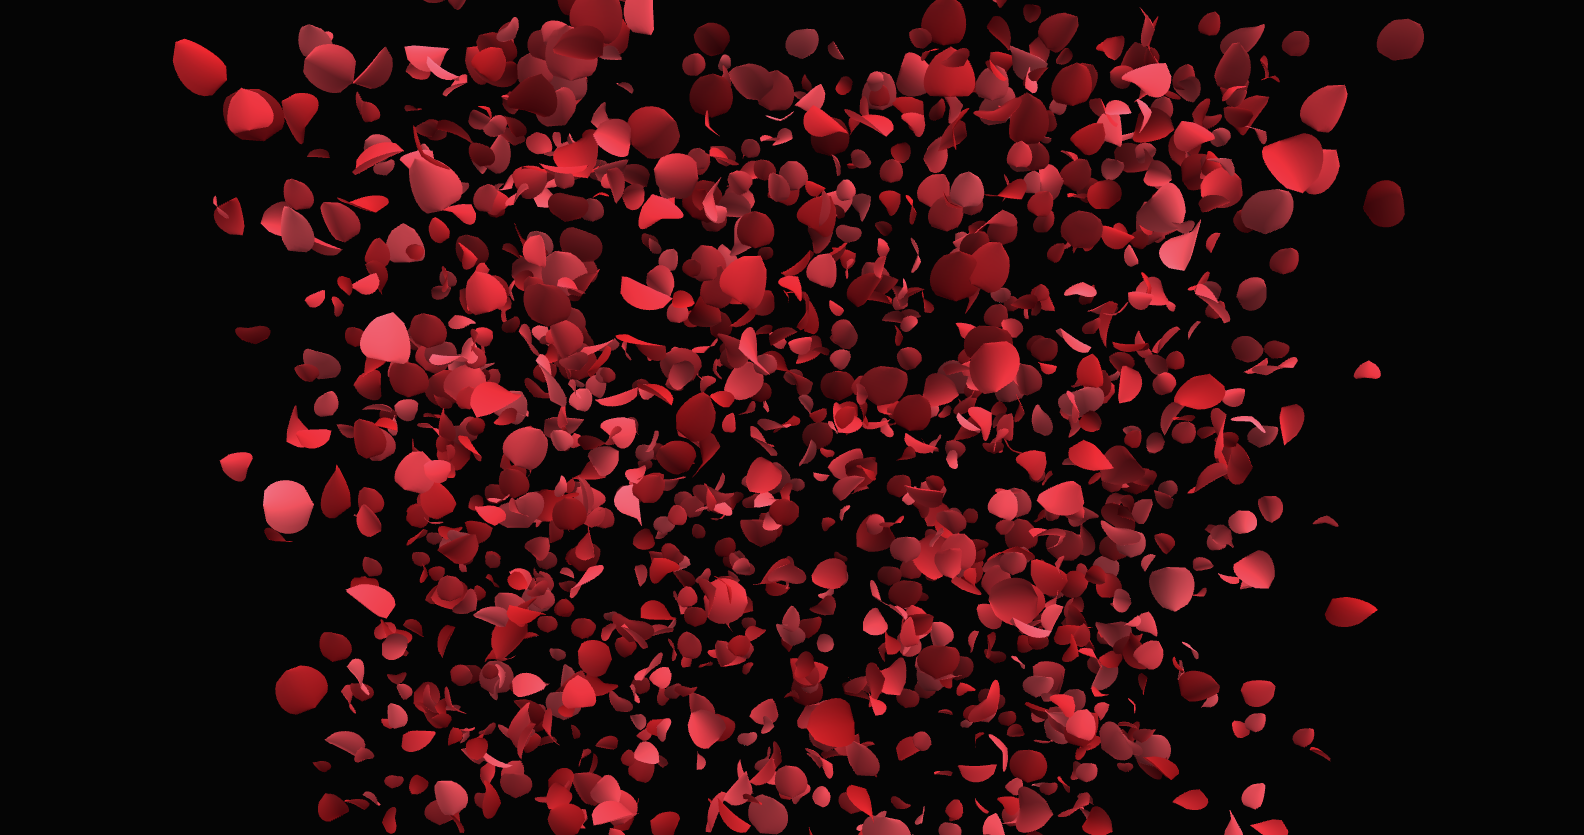
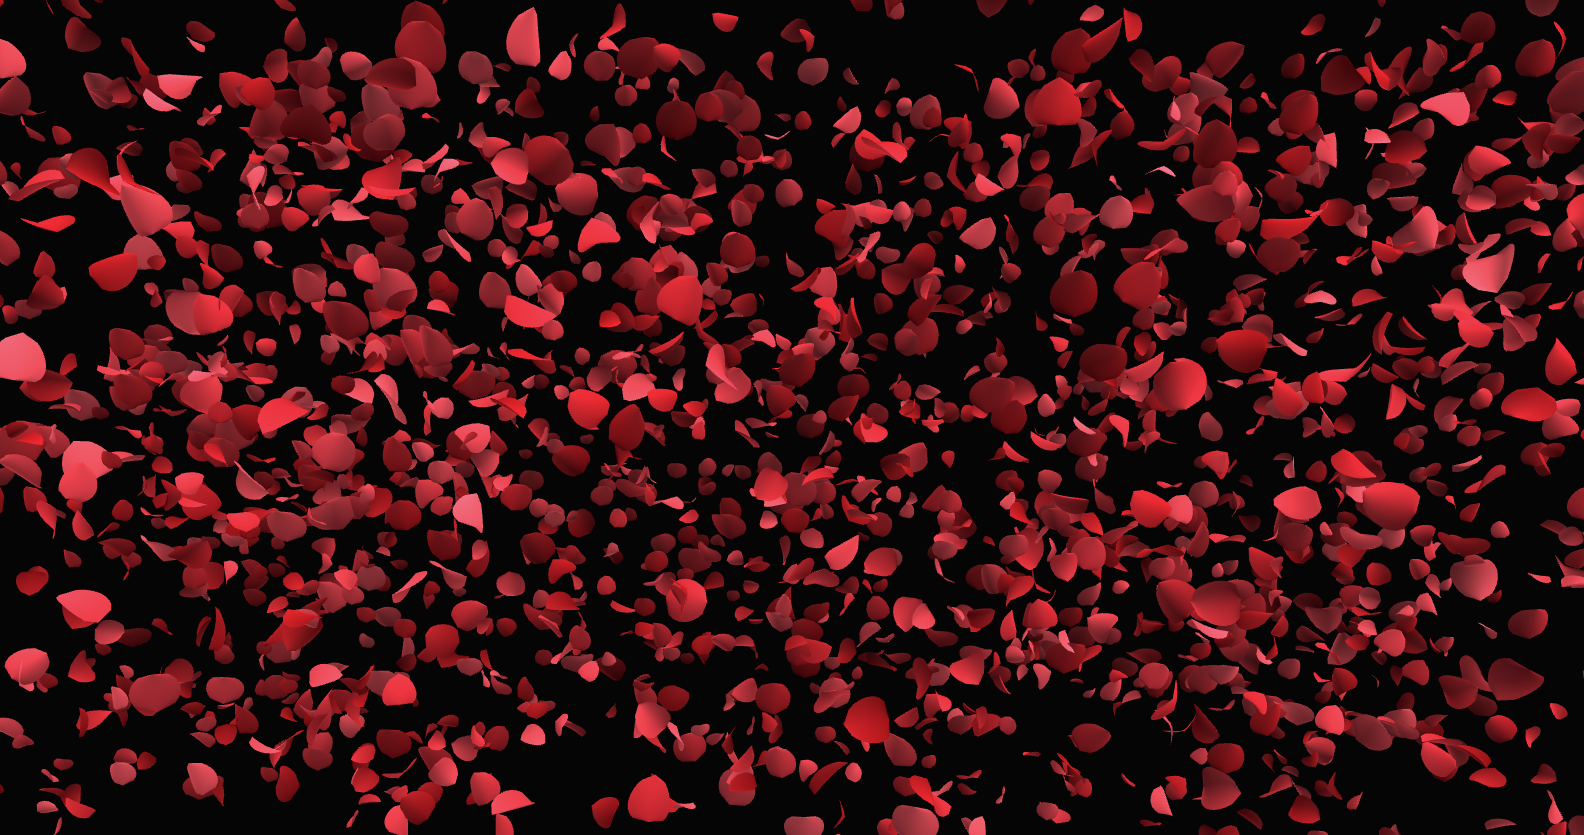
fix(fx): 玫瑰花瓣横向散布铺满全屏，消除两侧空白
用户截图反馈：花瓣集中在画面中间一条竖带里，左右两侧大片空白。

根因：X_SPAN=3.5 是按旧机位估的，而主程序相机 fov45 / 半径 8.8 /
16:9 下可见半宽 ≈6.5 —— 花瓣只铺了中间约六成宽。

- X_SPAN 3.5 → 6.6（略超可见半宽，边缘也保证有瓣）
- COUNT 1400 → 2200（面积扩了 1.9 倍，按比例补数量保密度）
- Z_SPAN 1.9 → 2.1（纵深视差随之略增）

离屏渲染（与主程序同机位参数 fov45/8.8/16:9）确认全宽铺满、分布均匀。
验证：node --check 通过；hoisting 46/46；reorg 等价；npm test 98 过 0 失败。
README 截图同步更新。

diff --git a/public/js/audio-rose-preset.js b/public/js/audio-rose-preset.js
@@ -21,11 +21,14 @@
 
   var INDEX = 21;
 
-  var COUNT = 1400;          // 花瓣数量（太密会糊成一片，单片可读性优先）
+  var COUNT = 2200;          // 花瓣数量（配合 X_SPAN=6.4 的全屏宽分布；太密会糊成一片）
   var TOP = 3.2;             // 生成高度
   var BOTTOM = -3.3;         // 循环底线
-  var X_SPAN = 3.5;          // 横向分布半径
-  var Z_SPAN = 1.9;          // 纵深分布（近大远小的视差感）
+  // 横向必须铺满画面：主程序相机 fov45 / 半径 8.8 / 16:9 下可见半宽 ≈ 6.5，
+  // 之前 X_SPAN=3.5 时花瓣只占中间约六成宽，两侧留大片空白（2026-11-03 用户截图反馈）。
+  // 取 6.6 略超出可见范围，边缘也保证有瓣；窗口更宽时最坏也是边缘稍稀。
+  var X_SPAN = 6.6;          // 横向分布半径（覆盖全屏宽）
+  var Z_SPAN = 2.1;          // 纵深分布（近大远小的视差感）
   var U_SEG = 10;            // 花瓣长度分段
   var S_SEG = 8;             // 宽度分段
 
